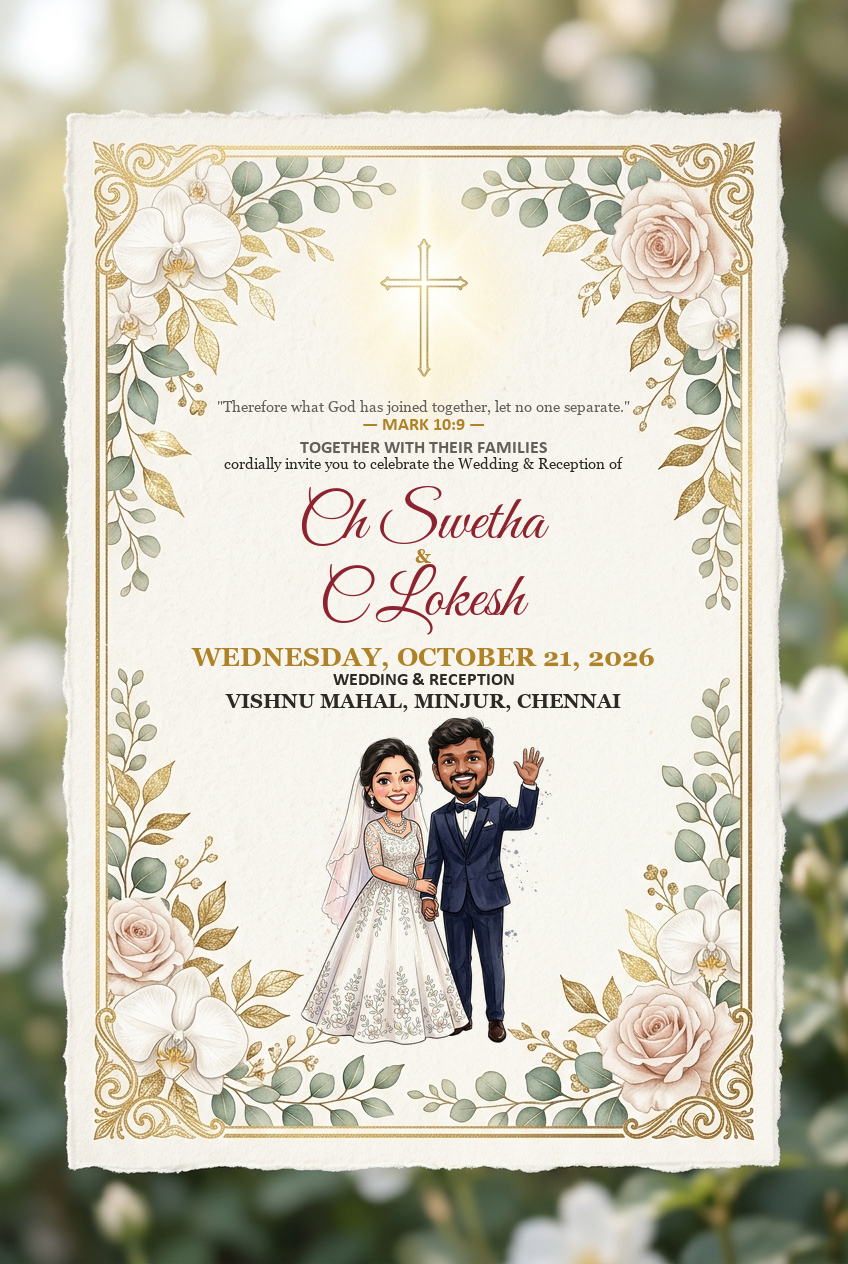
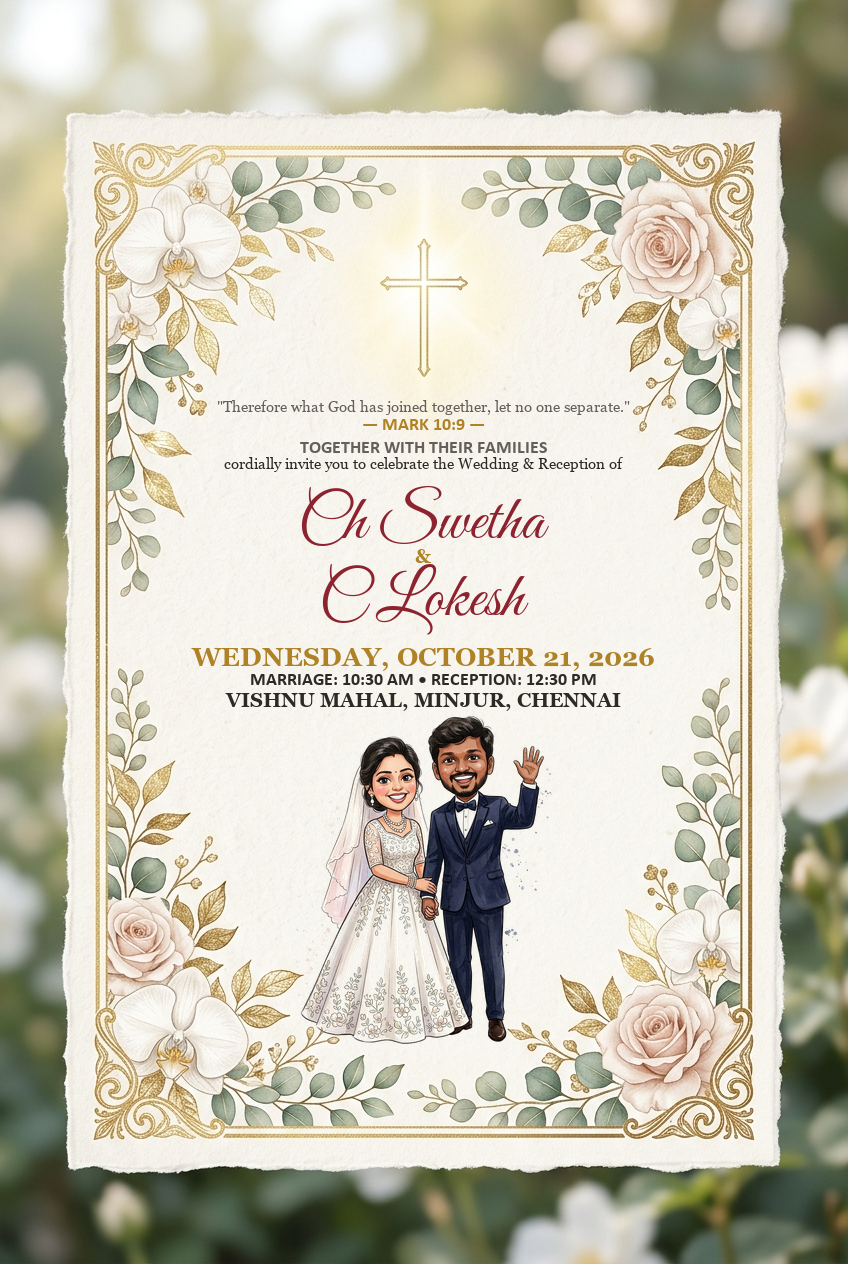
Update wedding timings: Marriage at 10:30 AM morning and Reception at 12:30 PM afternoon

Changed region(s): [[0.2759, 0.5245, 0.7052, 0.7405], [0.3679, 0.7405, 0.5519, 0.8331], [0.5825, 0.8022, 0.6132, 0.8331]]

diff --git a/index.html b/index.html
@@ -180,7 +180,7 @@
 
         <!-- Quick 1-click Calendar button (No name/phone/count needed!) -->
         <div class="save-date-actions">
-          <a href="https://calendar.google.com/calendar/render?action=TEMPLATE&text=Wedding+%26+Reception+of+Ch+Swetha+%26+C+Lokesh&dates=20261021T040000Z/20261021T163000Z&details=Holy+Matrimony+%26+Reception+Celebration+of+Ch+Swetha+%26+C+Lokesh.+Your+prayers+and+presence+are+cherished!&location=Vishnu+Mahal,+Minjur,+Chennai" target="_blank" rel="noopener noreferrer" class="btn-gold" id="btn-google-cal">
+          <a href="https://calendar.google.com/calendar/render?action=TEMPLATE&text=Wedding+%26+Reception+of+Ch+Swetha+%26+C+Lokesh&dates=20261021T050000Z/20261021T103000Z&details=Marriage+starts+at+10:30+AM+morning+%26+Reception+starts+at+12:30+PM+afternoon.+Location:+Vishnu+Mahal,+Minjur,+Chennai.&location=Vishnu+Mahal,+Minjur,+Chennai" target="_blank" rel="noopener noreferrer" class="btn-gold" id="btn-google-cal">
             <svg xmlns="http://www.w3.org/2000/svg" fill="none" viewBox="0 0 24 24" stroke-width="2" stroke="currentColor" style="width: 18px; height: 18px;">
               <path stroke-linecap="round" stroke-linejoin="round" d="M12 4.5v15m7.5-7.5h-15" />
             </svg>
@@ -207,19 +207,19 @@
       </div>
       
       <div class="events-grid">
-        <!-- Event 1: Holy Matrimony Wedding Ceremony -->
+        <!-- Event 1: Marriage Ceremony -->
         <div class="event-card">
           <div class="event-badge">
             <span class="month">OCT</span>
             <span class="day">21</span>
           </div>
-          <div class="event-type-pill">✝ Holy Matrimony</div>
+          <div class="event-type-pill">💍 Morning Ceremony</div>
           <h3 class="event-card-title">Marriage Ceremony</h3>
           <div class="event-time">
             <svg xmlns="http://www.w3.org/2000/svg" fill="none" viewBox="0 0 24 24" stroke-width="2.5" stroke="currentColor" style="width: 15px; height: 15px;">
               <path stroke-linecap="round" stroke-linejoin="round" d="M12 6v6h4.5m4.5 0a9 9 0 1 1-18 0 9 9 0 0 1 18 0Z" />
             </svg>
-            <span>09:30 AM onwards</span>
+            <span>10:30 AM (Morning)</span>
           </div>
           <p class="event-venue">
             <b>Vishnu Mahal</b><br>
@@ -235,19 +235,19 @@
           </a>
         </div>
 
-        <!-- Event 2: Grand Wedding Reception -->
+        <!-- Event 2: Wedding Reception -->
         <div class="event-card">
           <div class="event-badge">
             <span class="month">OCT</span>
             <span class="day">21</span>
           </div>
-          <div class="event-type-pill">✨ Celebration & Dinner</div>
+          <div class="event-type-pill">✨ Afternoon Celebration</div>
           <h3 class="event-card-title">Wedding Reception</h3>
           <div class="event-time">
             <svg xmlns="http://www.w3.org/2000/svg" fill="none" viewBox="0 0 24 24" stroke-width="2.5" stroke="currentColor" style="width: 15px; height: 15px;">
               <path stroke-linecap="round" stroke-linejoin="round" d="M12 6v6h4.5m4.5 0a9 9 0 1 1-18 0 9 9 0 0 1 18 0Z" />
             </svg>
-            <span>06:30 PM onwards</span>
+            <span>12:30 PM (Afternoon)</span>
           </div>
           <p class="event-venue">
             <b>Vishnu Mahal</b><br>

diff --git a/script.js b/script.js
@@ -3,8 +3,8 @@
 // Date: October 21, 2026 | Vishnu Mahal, Minjur, Chennai
 // ==========================================================================
 
-// Wedding Date: October 21, 2026 at 09:30 AM IST
-const weddingDate = new Date("Oct 21, 2026 09:30:00").getTime();
+// Wedding Date: October 21, 2026 at 10:30 AM IST
+const weddingDate = new Date("Oct 21, 2026 10:30:00").getTime();
 let isMusicPlaying = false;
 let audioPlayer = null;
 let loveCount = 128;
@@ -20,6 +20,8 @@ const defaultBlessings = [
 const welcomeMessages = [
   "Hi there! Welcome to our wedding invitation! 👋",
   "We can't wait to celebrate with you on October 21st! 💖",
+  "Marriage Ceremony starts at 10:30 AM morning! 💍",
+  "Wedding Reception starts at 12:30 PM afternoon! ✨",
   "Join us at Vishnu Mahal, Minjur, Chennai! 🏛",
   "Two hearts, one sacred vow united in faith and love! ✝✨",
   "Your prayers and presence are our greatest blessing! 🌸",
@@ -281,10 +283,10 @@ function downloadICSEvent() {
     "BEGIN:VEVENT",
     "UID:swetha-lokesh-wedding-20261021@wedding.com",
     "DTSTAMP:20261009T000000Z",
-    "DTSTART:20261021T040000Z", // 9:30 AM IST
-    "DTEND:20261021T163000Z",   // 10:00 PM IST
+    "DTSTART:20261021T050000Z", // 10:30 AM IST
+    "DTEND:20261021T103000Z",   // 4:00 PM IST
     "SUMMARY:Wedding & Reception of Ch Swetha & C Lokesh 💍✝",
-    "DESCRIPTION:Wedding Ceremony & Grand Reception of Ch Swetha & C Lokesh. Your prayers and presence are cherished!",
+    "DESCRIPTION:Marriage Ceremony starts at 10:30 AM morning and Wedding Reception starts at 12:30 PM afternoon at Vishnu Mahal, Minjur, Chennai. Your prayers and presence are cherished!",
     "LOCATION:Vishnu Mahal, Minjur, Chennai, Tamil Nadu",
     "STATUS:CONFIRMED",
     "END:VEVENT",
@@ -412,6 +414,9 @@ function shareOnWhatsApp() {
     "💍✝ *You're Cordially Invited!*\n\n" +
     "Together with our families, we invite you to celebrate the Wedding & Reception of *Ch Swetha & C Lokesh*.\n\n" +
     "📅 *Date:* Wednesday, October 21, 2026\n" +
+    "⏰ *Timing:*\n" +
+    "  • Marriage Ceremony: 10:30 AM (Morning)\n" +
+    "  • Wedding Reception: 12:30 PM (Afternoon)\n" +
     "🏛 *Venue:* Vishnu Mahal, Minjur, Chennai\n\n" +
     "✨ Tap below to view our digital wedding invitation & map directions:\n" +
     window.location.href
